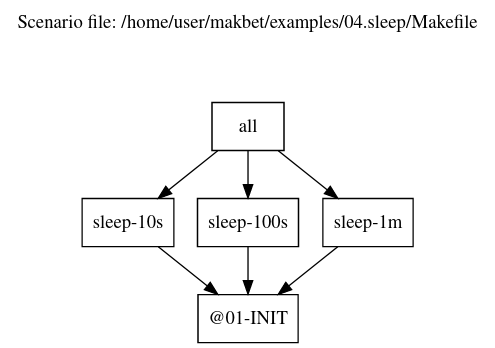
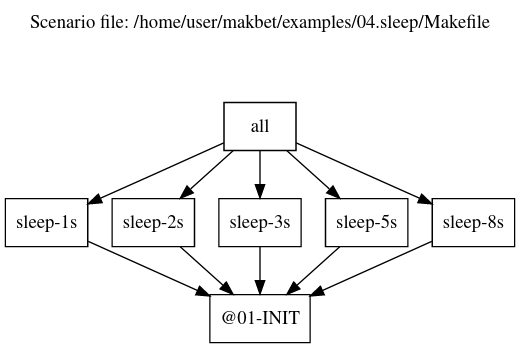
[DEV] Improve examples/04.sleep
Increase number of sleep tasks from three to five.  Additionally
switch to Fibonacci sequence.

diff --git a/examples/README.rst b/examples/README.rst
@@ -94,11 +94,12 @@ there is no dedicated task script in this example.  The syntax of all raw
 
 The next example is saved in ``examples/04.sleep/`` directory.  This is another
 good example showing how to play with parallel tasks execution.  The Makefile
-file of this scenario contains 3 sleep tasks: ``sleep-10s``, ``sleep-100s`` and
-``sleep-1m``.  All of them can be run, sequentially - one after another, if
-``make`` command will be run with ``-j1`` flag (or without ``-j`` flag at all).
-But they can be also run in parallel if ``-j3`` (or in general if jobs value
-will be greater than 1) flag will be passed to the ``make`` command.
+file of this scenario contains **five** sleep tasks: ``sleep-1s``, ``sleep-2s``,
+``sleep-3s``, ``sleep-5s`` and ``sleep-8s``.  All of them can be run,
+sequentially - one after another, if ``make`` command will be run with ``-j1``
+flag (or without ``-j`` flag at all).  But they can be also run in parallel if
+``-j3`` (or in general if jobs value will be greater than 1) flag will be passed
+to the ``make`` command.
 
 |
 
